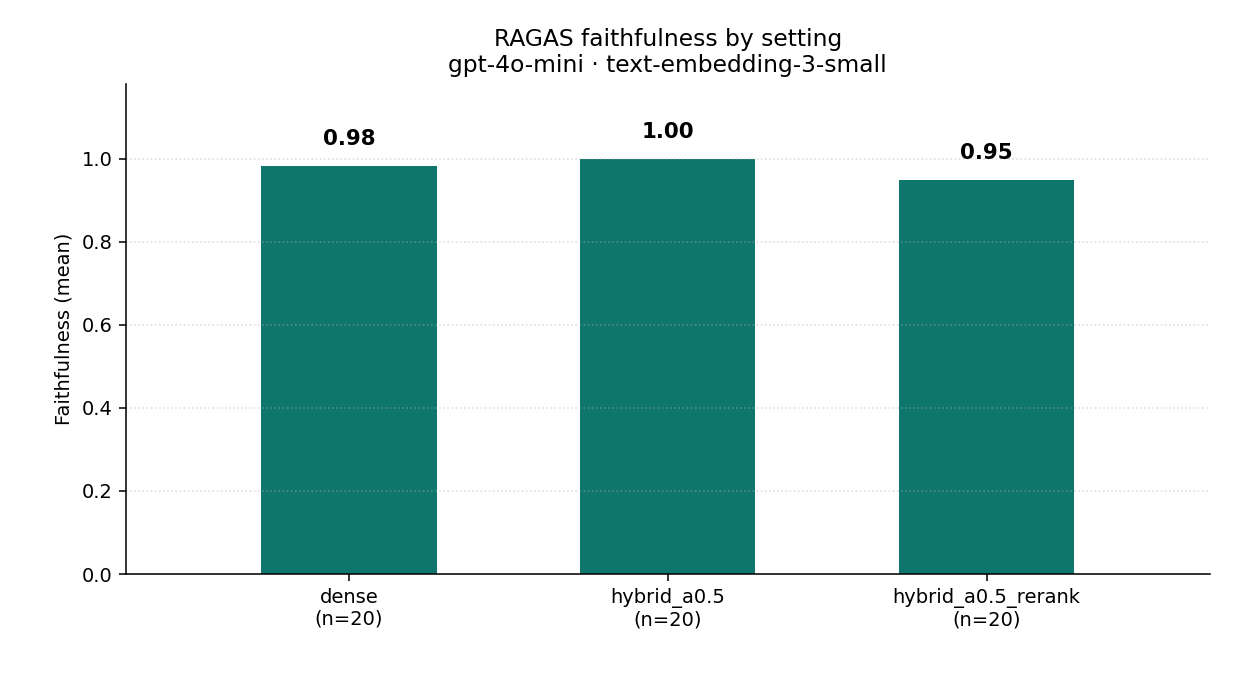
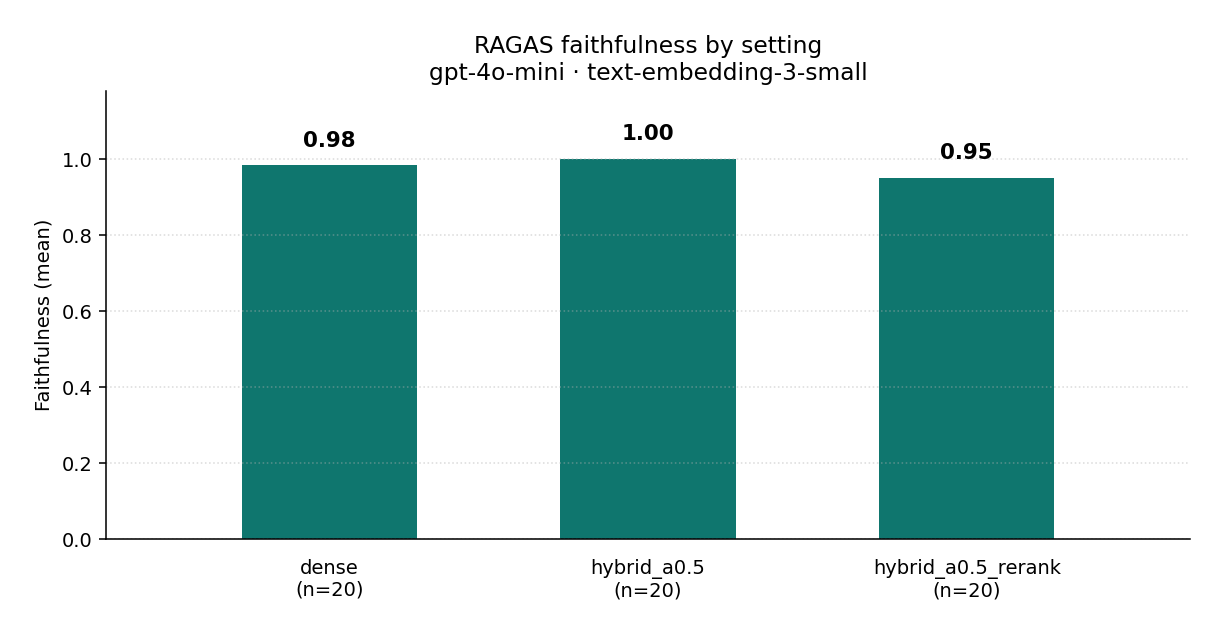
fix(evals): remove x-tick overlap on faithfulness chart labels

diff --git a/evals/plot_faithfulness.py b/evals/plot_faithfulness.py
@@ -90,9 +90,10 @@ def main() -> int:
             fontweight="bold",
         )
 
-    fig.subplots_adjust(bottom=0.18, top=0.88, left=0.1, right=0.96)
+    ax.tick_params(axis="x", length=0, pad=10)
+    fig.subplots_adjust(bottom=0.22, top=0.86, left=0.1, right=0.96)
     out = CHARTS / "faithfulness_by_setting.png"
-    fig.savefig(out, dpi=140)
+    fig.savefig(out, dpi=140, bbox_inches="tight", pad_inches=0.25)
     plt.close(fig)
 
     summary = {
